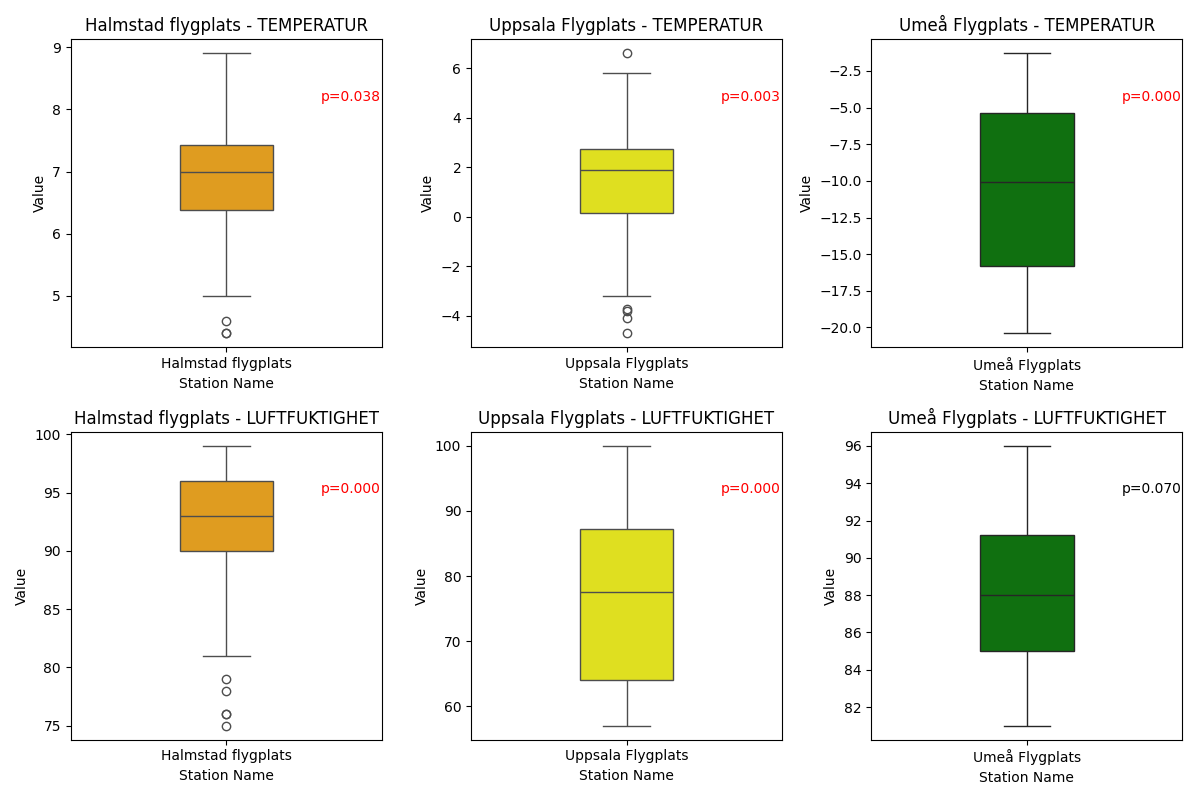
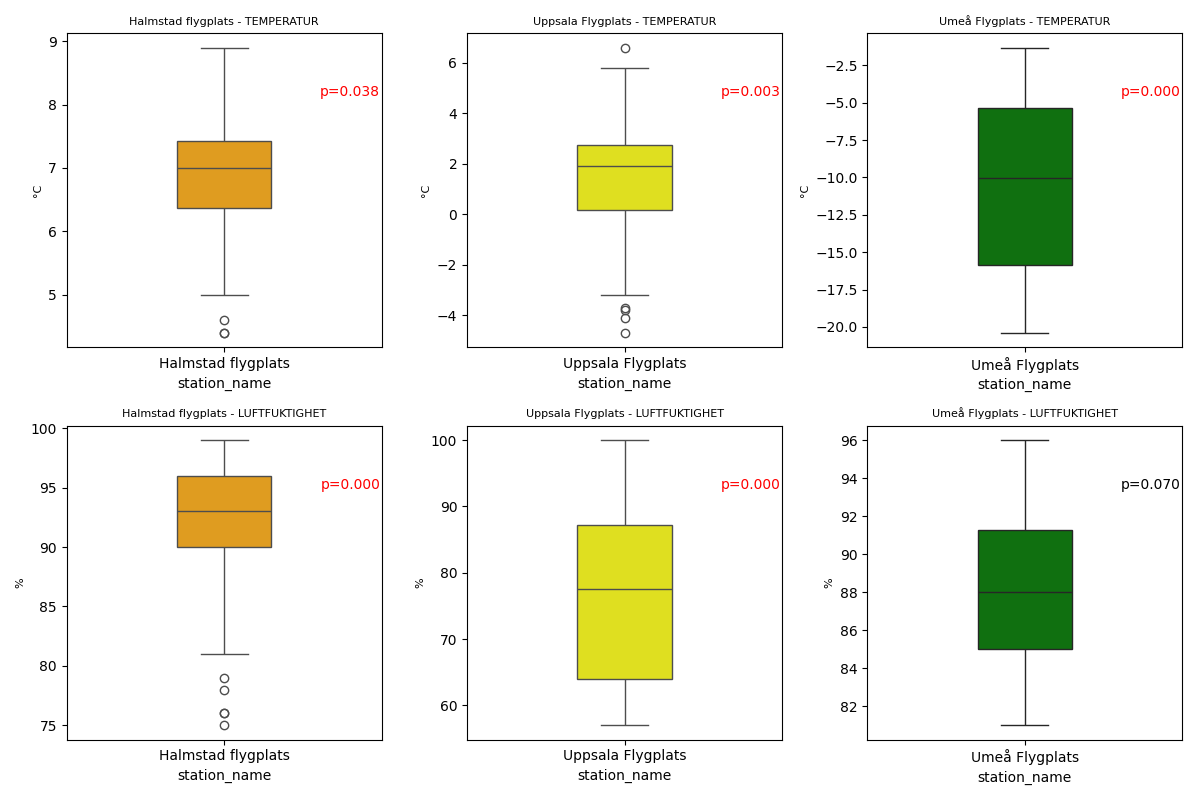
begin with uppgift 4

diff --git a/ALL_CODE.py b/ALL_CODE.py
@@ -159,7 +159,7 @@ def comment_avay():
     parameters = df_three['parameter'].unique()
 
     # Set up the figure
-    fig, axes = plt.subplots(2, 3, figsize=(12, 4 * 2)) # 2 rows 3 columns
+    fig, axes = plt.subplots(2, 3, figsize=(12, 4 * 2))  # 2 rows, 3 columns
 
     results = []
     # Loop over stations and parameters
@@ -169,16 +169,17 @@ def comment_avay():
             data_filtered = df_three[(df_three['station_name'] == station) & (df_three['parameter'] == parameter)]
             stat, p_value = sci.shapiro(data_filtered['value'])
             results.append({
-            'Station': station,
-            'Parameter': parameter,
-            'Shapiro-Wilk Statistic': round(stat, 5),
-            'P-value': round(p_value, 5),
-            'Normal Distribution (p > 0.05)': 'Yes' if p_value > 0.05 else 'No'
-        })
+                'Station': station,
+                'Parameter': parameter,
+                'Shapiro-Wilk Statistic': round(stat, 5),
+                'P-value': round(p_value, 5),
+                'Normal Distribution (p > 0.05)': 'Yes' if p_value > 0.05 else 'No'
+            })
+            
             # Select the current axis
             ax = axes[i, j]
             
-            # Create a boxplot
+            # Plot the boxplot
             sns.boxplot(
                 ax=ax,
                 data=data_filtered,
@@ -189,18 +190,16 @@ def comment_avay():
                 width=0.3,
                 dodge=False
             )
-            
-            # Rotate x-axis labels
-            ax.tick_params(axis='x')
-            
+
             # Add title and labels
-            ax.set_title(f"{station} - {parameter}", fontsize=12)
-            ax.set_xlabel("Station Name", fontsize=10)
-            ax.set_ylabel("Value", fontsize=10)
+            ax.set_title(f"{station} - {parameter}", fontsize=8)
+            #ax.set_xlabel("Station Name", fontsize=10)
+            ax.set_ylabel(f"{'°C' if parameter == 'TEMPERATUR' else '%'}", fontsize=8)
+
             # Annotate p-value on the plot
             ax.text(
                 0.9, 0.8,  # Position: center-top of the plot
-                f"p={p_value:.3f}",
+                f"p={p_value:.5f}",
                 transform=ax.transAxes,
                 fontsize=10,
                 ha='center',
@@ -212,13 +211,37 @@ def comment_avay():
 
     # Show the figure
     plt.savefig('img/box_plot/all.png')
-
+    plt.show()
+    plt.close()
     # Save the results of Shapiro-Wilk test
     results_df = pd.DataFrame(results)
     utils.save_to_mdfile(results_df, "shapiro_wilk.md", "statistics")
-    
 
-     
+""""
+Q_Q plottar
+"""
+fig, axes = plt.subplots(2, 3, figsize=(10, 3 * 2))
+
+
+# Loopa igenom alla stationer och parametrar
+for i, station in enumerate(stations):
+    for j, parameter in enumerate(parameters):
+        # Filtrera data för station och parameter
+        data = df_three[(df_three['station_name'] == station) & (df_three['parameter'] == parameter)]
+        numeric_data = data['value'].dropna()
+        # Skapa Q-Q diagram för att jämföra med normalfördelning
+        ax = axes[j, i]
+        
+        sci.probplot(numeric_data, dist="norm", plot=ax)
+        ax.set_ylabel(f"{'temperatur, °C' if parameter == 'TEMPERATUR' else 'humidity, %'}", fontsize=8)
+        # Lägg till titel
+        ax.set_title(f"Q-Q plot: {station} - {parameter}", fontsize=8)
+        ax.get_lines()[1].set_color('red')  # Gör linjen för teoretiska kvantiler röd
+        
+# Justera layouten
+plt.tight_layout()
+plt.savefig('img/q_q_plot/all.png')
+plt.close()
 exit()
 """
 CORRELATION MATRIX FOR 6 PARAMETERS

diff --git a/RAPPORT.md b/RAPPORT.md
@@ -311,7 +311,11 @@ Följande kode skaffar ladogrammer för varje station ohc parameter, samt gör S
 '''
 
 
-![Ladogrammar ](img/box_plot/all.png)
+### Figur 2
+[Ladogrammar ](img/box_plot/all.png)
+#### Förklaring till Figur 2.
+Figuren visar boxplottar för olika stationer och parametrar. Varje delplott representerar en specifik kombination av station och parameter. De parametrar som visas är temperatur och luftfuktighet, och motsvarande enheter anges i diagrammets etiketter. Boxplottarna visar fördelningen av värden för varje station, där den centrala linjen representerar medianen, boxarna visar det interkvartila intervallet (IQR) och morrhåren sträcker sig till minimi- och maximivärdena inom 1,5 * IQR. Små sirklar visar avvikande värde.
+För varje boxplott anges ett resultat från Shapiro-Wilk-testetm, den hjälper att bedöma om data följer en normalfördelning. Ett p-värde under 0,05 indikerar att data inte följer en normalfördelning, och detta markeras med rött i diagrammet. 
 
 ### Tabell 4. Shapiro-Wilk test
 
@@ -325,28 +329,42 @@ Följande kode skaffar ladogrammer för varje station ohc parameter, samt gör S
 | Uppsala Flygplats  | TEMPERATUR    |                    0.944 |     0.003 | No                               |
 
 *Med dessa plottar och Shapiro-Wilk test testar jag nulhypotes: att data är noirmalfördelad.*
-Både plottar och Shapiro-Wilk test för normality tillåtar förkasta nulhypotes om att temperatur spridning är normal fördelad. Sannolikheten att nulhypotes stämmer är 3.78% för Halmstad flygplats, som är mindre än 5% och därmed är sannolikhet för typ II fel är ganska liten.
-För andra två platser respectivt sannolikhheten för att nulhypotes stämmer är 0.29% och 0.02% och därmed är möjlighet för att felförkasta nulhypotes (fel typ II) är ännu mindre.
+Ldogrammar och Shapiro-Wilk test för normality tillåtar förkasta nulhypotes om att temperatur spridning är normal fördelad. Sannolikheten att nulhypotes stämmer är mindre än 5% och därmed för alla tre platsar och därmed är sannolikhet för typ II fel (att felaktigt förkasta null hupotes) är ganska liten.
+Samma påstående stämmer för relativt lyft fuktighet med undantag för relativt luftfuktighet i Umeå flygplats, där sannolikhet att null hypotes stämmer är mera än 5%, nämlgen 7%.
+
 ### Q_Q plottar
 Det finns ett annat sät att visualisera avvikelse från normalfördelning, n-mligen [kvantil_kvantil plot](https://pubmed.ncbi.nlm.nih.gov/5661047/). Varje axel visar fördelningen av en dataset. I detta fall jämför jag dataset från olika stationer mot den teoretiska normalfördelningen. På X-axeln visas normafördelnings kvantiler, på Y-axeln visas kvantiler från respektiv datamängd (Tabel 3[a](### Tabel 3a)[b][### Tabel 3b])
-### Fig 4a
-![Kvanti_kventil ploter för TEMPERATUR](img/q_q_plot/TEMPERATUR_combined_qq_plots.png)
+### Fig 4
+![Kvanti_kventil plottar ](img/q_q_plot/all.png)
+## Förklaring av Q-Q Plottar
 
-### Tabel 3b. [Beskrivande statistik RELATIVT LUFTFUKTIGHET](statistics/LUFTFUKTIGHET_describe_stat.md)
-Om jag gör samma test för relativt lurftfuktighet visas det att luftfuktighet i Umeå Flugplats kan vara normalfördelad eftersom p_värde är 6.95% och större än 5%, dvs nulhypotes om att data är normalfördelade kan inta förkastas. Det är ppga stor sannoliket för fel typ II.
+Den här figuren visar **Q-Q plottar** för data från olika stationer och parametrar. En Q-Q plot (Quantile-Quantile plot) jämför de empiriska kvantilerna från den faktiska datan med de teoretiska kvantilerna från en normalfördelning. Syftet med denna figur är att visuellt bedöma hur väl datan följer en normalfördelning.
 
-![Ladogrammar för relativt LUFTFUKTIGHET](img/box_plot/LUFTFUKTIGHET_combined_box_plots.png)
+Vad visar figuren?
+- **X-axeln**: De teoretiska kvantilerna från en normalfördelning.
+- **Y-axeln**: De empiriska kvantilerna från vår data, som representerar de observerade värdena.
+- **Punkterna**: Varje punkt representerar ett par kvantiler – ett från den empiriska fördelningen (vår data) och ett från den teoretiska fördelningen (normalfördelning). Om punkterna ligger på en rak linje, indikerar detta att datan följer en normalfördelning.
 
-![Luftfuktighet frekvenser](img/frekvenser/LUFTFUKTIGHET_combined.png)
+Tolkning av figuren:
+- **Om punkterna ligger nära en rak linje**: Detta tyder på att datan är nära en normalfördelning.
+- **Om punkterna avviker från linjen**:
+  - **Om punkterna böjer sig uppåt vid svansarna**: Detta kan indikera att datan har för mycket extrema värden, vilket tyder på en tyngre svans än normalfördelningen (t.ex. en t-fördelning).
+  - **Om punkterna böjer sig nedåt vid svansarna**: Detta kan tyda på att datan har för få extrema värden och inte har lika många extremvärden som en normalfördelning.
+  - **Om punkterna är ojämnt fördelade eller böjer sig i mitten**: Detta kan indikera en snedvridning (skewness) i datan, vilket innebär att den inte är symmetrisk.
+För varje plot
+- Varje subplot representerar en **station** och en **parameter**.
+- De röda linjerna representerar den teoretiska normalfördelningen som används för att jämföra den empiriska datan.
+- Om data följer en normalfördelning bör punkterna vara nära den röda linjen, särskilt i mitten och vid svansarna.
 
-### Tabel 4b
-![Kvanti_kventil ploter för RELATIVT LUFTFUKTIGHET](img/q_q_plot/LUFTFUKTIGHET_combined_qq_plots.png)
+Denna typ av figur används för att snabbt bedöma om datan följer en normalfördelning, vilket kan vara användbart i statistiska tester eller när du ska välja lämpliga modeller för analysen.
 
-Dess plottar visa samma: aärmast till normalfördelningen är data från station Halmstad flygplats, för både temperatur och relativt lyftfuktighet.
+Dessa plottar visa samma: närmast till normalfördelningen är data från relativt luftfuktighet i Umeå flygplats.
 
-# Uppgift 4: Linjär regression
-jag ser hur korrelerar olika variabler med varandra
-![Korrelation matrix](img/correlations/all_correlations.png)
+
+## Uppgift 4: Linjär regression
+
+För att ser med vilka data ska jag arbeta vill jag först titta på hur data korrelerrar med varandra. Däerför skaffar jag korrelation matris.
+![Korrelation matris](img/correlations/all_correlations.png)
 
 Matrix visar att den bästa correlation är mellan temperatur och relativt luftfuktighet i Umeå.
 Därför välde jag att använda dessa variabler för liniar regression

diff --git a/statistics/shapiro_wilk.md b/statistics/shapiro_wilk.md
@@ -1,8 +1,8 @@
 |    | Station            | Parameter     |   Shapiro-Wilk Statistic |   P-value | Normal Distribution (p > 0.05)   |
 |---:|:-------------------|:--------------|-------------------------:|----------:|:---------------------------------|
-|  0 | Halmstad flygplats | LUFTFUKTIGHET |                    0.884 |     0     | No                               |
-|  1 | Halmstad flygplats | TEMPERATUR    |                    0.964 |     0.038 | No                               |
-|  2 | Umeå Flygplats     | LUFTFUKTIGHET |                    0.969 |     0.07  | Yes                              |
-|  3 | Umeå Flygplats     | TEMPERATUR    |                    0.92  |     0     | No                               |
-|  4 | Uppsala Flygplats  | LUFTFUKTIGHET |                    0.918 |     0     | No                               |
-|  5 | Uppsala Flygplats  | TEMPERATUR    |                    0.944 |     0.003 | No                               |
+|  0 | Halmstad flygplats | TEMPERATUR    |                  0.9641  |   0.03779 | No                               |
+|  1 | Uppsala Flygplats  | TEMPERATUR    |                  0.94367 |   0.00291 | No                               |
+|  2 | Umeå Flygplats     | TEMPERATUR    |                  0.92035 |   0.00022 | No                               |
+|  3 | Halmstad flygplats | LUFTFUKTIGHET |                  0.88416 |   1e-05   | No                               |
+|  4 | Uppsala Flygplats  | LUFTFUKTIGHET |                  0.91839 |   0.00018 | No                               |
+|  5 | Umeå Flygplats     | LUFTFUKTIGHET |                  0.96868 |   0.06953 | Yes                              |
